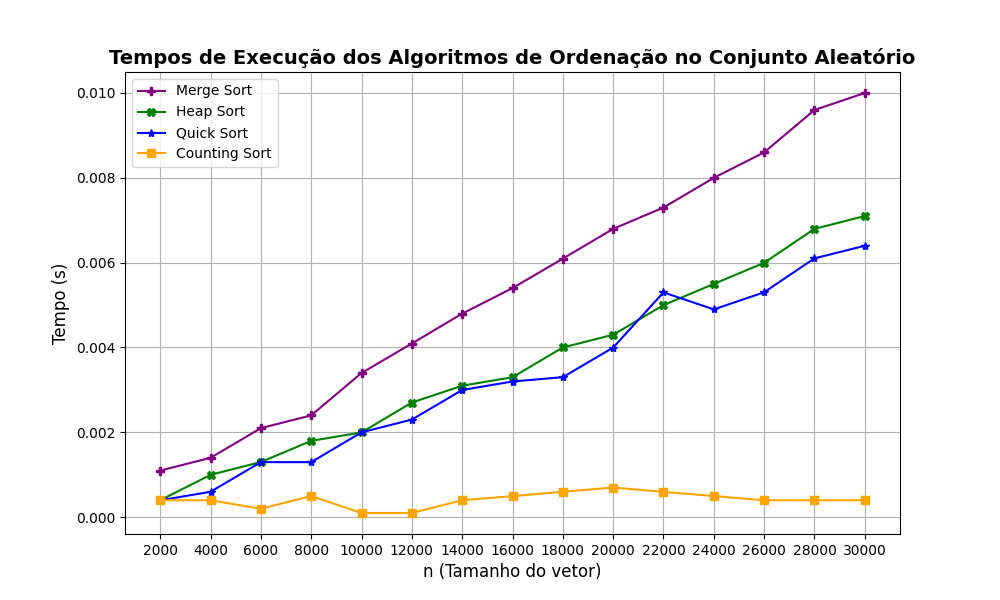
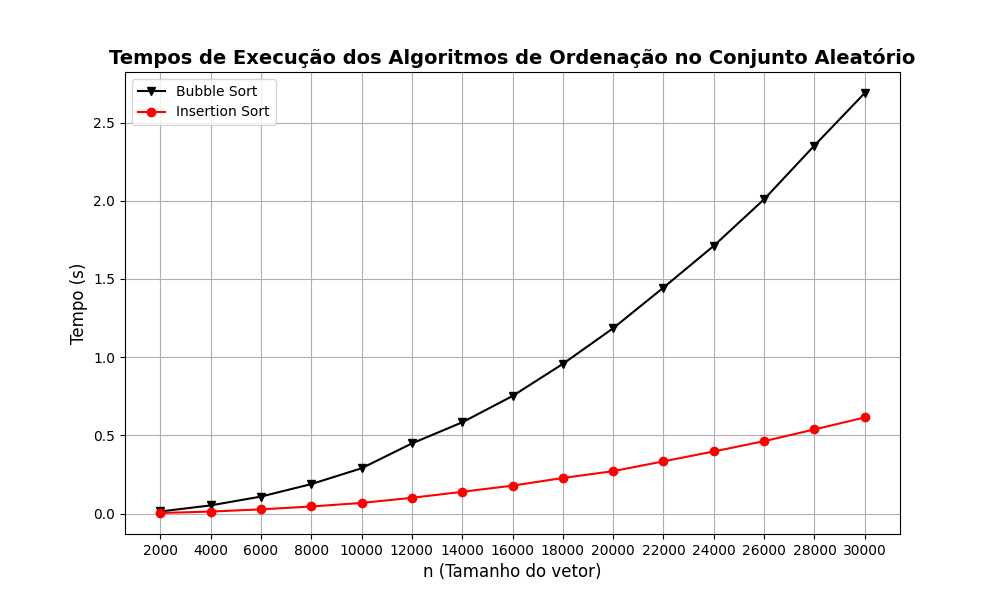
teste

diff --git a/graficos/4/gerarGrafico4-1.py b/graficos/4/gerarGrafico4-1.py
@@ -10,21 +10,16 @@ with open('../../vetor_quaseOrdenado.csv', 'r') as arquivo_csv:
 
 # Separando os dados
 n = [row[0] for row in dados]
+bubble = [row[1] for row in dados]
 insertion = [row[2] for row in dados]
-merge = [row[3] for row in dados]
-heap = [row[4] for row in dados]
-quick = [row[5] for row in dados]
-counting = [row[6] for row in dados]
+
 
 # Criando o gráfico
 plt.figure(figsize=(10, 6))
 
 # Definindo cores explícitas para cada algoritmo
+plt.plot(n, bubble, color='black', marker='v', label='Bubble Sort')
 plt.plot(n, insertion, color='red', marker='o', label='Insertion Sort')
-plt.plot(n, merge, color='purple', marker='P', label='Merge Sort')
-plt.plot(n, heap, color='green', marker='X', label='Heap Sort')
-plt.plot(n, quick, color='blue', marker='*', label='Quick Sort')
-plt.plot(n, counting, color='orange', marker='s', label='Counting Sort')
 
 # Configurando os eixos
 plt.xlabel('n (Tamanho do vetor)', fontsize=12)
